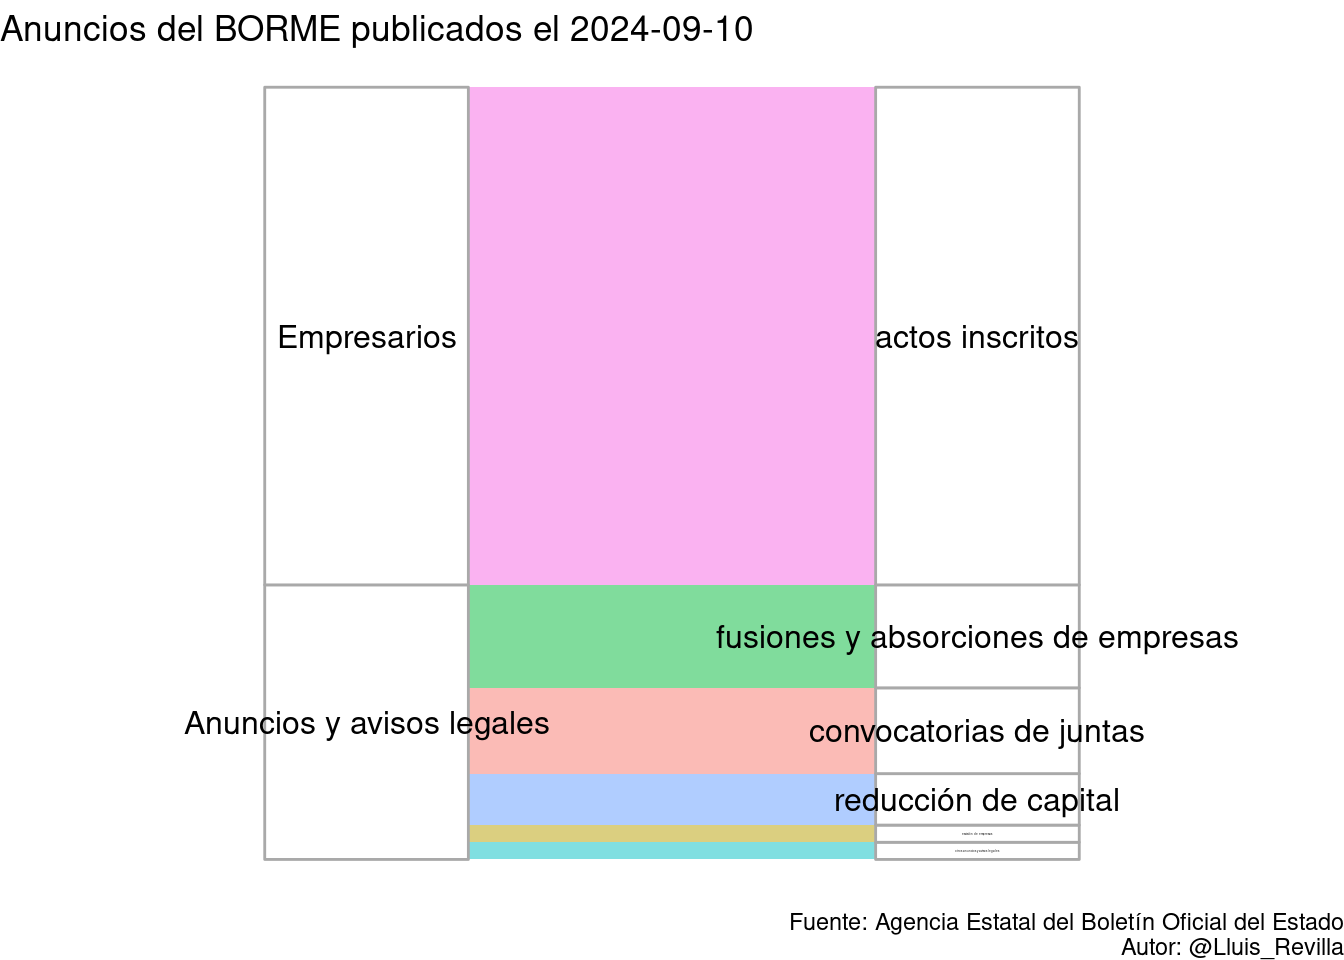
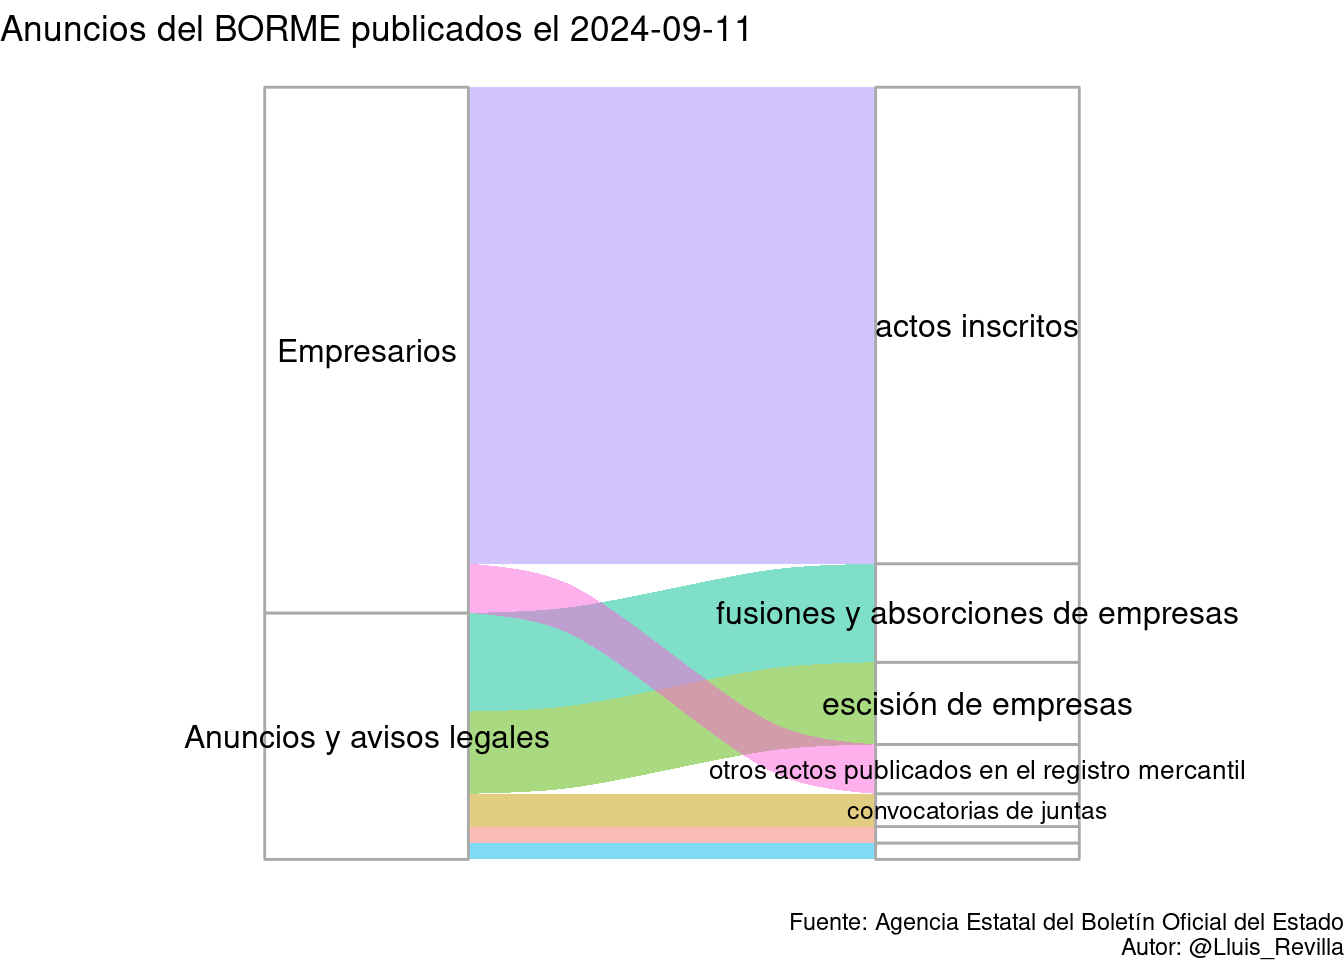
Update BORME

Changed region(s): [[0.125, 0.0938, 0.9375, 0.9062], [0.5312, 0.0, 0.5625, 0.0312]]

diff --git a/docs/last_BORME.html b/docs/last_BORME.html
@@ -379,14 +379,14 @@ $(document).ready(function () {
 
 <div id="resumen-gráfico" class="section level1">
 <h1>Resumen gráfico</h1>
-<p>Esta página web contiene el último sumario del BORME publicado el 2024-09-10 con 45 publicaciones.</p>
+<p>Esta página web contiene el último sumario del BORME publicado el 2024-09-11 con 47 publicaciones.</p>
 <p><img src="last_BORME_files/figure-html/graphics-1.png" width="672" /></p>
 </div>
 <div id="tabla-de-publicaciones" class="section level1">
 <h1>Tabla de publicaciones</h1>
 <p>Aquí está la tabla completa con enlaces a las publicaciones:</p>
-<div class="datatables html-widget html-fill-item-overflow-hidden html-fill-item" id="htmlwidget-a3e019c205c1f0cdca3c" style="width:100%;height:auto;"></div>
-<script type="application/json" data-for="htmlwidget-a3e019c205c1f0cdca3c">{"x":{"filter":"top","vertical":false,"filterHTML":"<tr>\n  <td><\/td>\n  <td data-type=\"character\" style=\"vertical-align: top;\">\n    <div class=\"form-group has-feedback\" style=\"margin-bottom: auto;\">\n      <input type=\"search\" placeholder=\"All\" class=\"form-control\" style=\"width: 100%;\"/>\n      <span class=\"glyphicon glyphicon-remove-circle form-control-feedback\"><\/span>\n    <\/div>\n  <\/td>\n  <td data-type=\"character\" style=\"vertical-align: top;\">\n    <div class=\"form-group has-feedback\" style=\"margin-bottom: auto;\">\n      <input type=\"search\" placeholder=\"All\" class=\"form-control\" style=\"width: 100%;\"/>\n      <span class=\"glyphicon glyphicon-remove-circle form-control-feedback\"><\/span>\n    <\/div>\n  <\/td>\n  <td data-type=\"character\" style=\"vertical-align: top;\">\n    <div class=\"form-group has-feedback\" style=\"margin-bottom: auto;\">\n      <input type=\"search\" placeholder=\"All\" class=\"form-control\" style=\"width: 100%;\" disabled=\"\"/>\n      <span class=\"glyphicon glyphicon-remove-circle form-control-feedback\"><\/span>\n    <\/div>\n  <\/td>\n  <td data-type=\"character\" style=\"vertical-align: top;\">\n    <div class=\"form-group has-feedback\" style=\"margin-bottom: auto;\">\n      <input type=\"search\" placeholder=\"All\" class=\"form-control\" style=\"width: 100%;\"/>\n      <span class=\"glyphicon glyphicon-remove-circle form-control-feedback\"><\/span>\n    <\/div>\n  <\/td>\n<\/tr>","data":[["1","2","3","4","5","6","7","8","9","10","11","12","13","14","15","16","17","18","19","20","21","22","23","24","25","26","27","28","29","30","31","32","33","34","35","36","37","38","39","40","41","42","43","44","45"],["SECCIÓN PRIMERA. Empresarios","SECCIÓN PRIMERA. Empresarios","SECCIÓN PRIMERA. Empresarios","SECCIÓN PRIMERA. Empresarios","SECCIÓN PRIMERA. Empresarios","SECCIÓN PRIMERA. Empresarios","SECCIÓN PRIMERA. Empresarios","SECCIÓN PRIMERA. Empresarios","SECCIÓN PRIMERA. Empresarios","SECCIÓN PRIMERA. Empresarios","SECCIÓN PRIMERA. Empresarios","SECCIÓN PRIMERA. Empresarios","SECCIÓN PRIMERA. Empresarios","SECCIÓN PRIMERA. Empresarios","SECCIÓN PRIMERA. Empresarios","SECCIÓN PRIMERA. Empresarios","SECCIÓN PRIMERA. Empresarios","SECCIÓN PRIMERA. Empresarios","SECCIÓN PRIMERA. Empresarios","SECCIÓN PRIMERA. Empresarios","SECCIÓN PRIMERA. Empresarios","SECCIÓN PRIMERA. Empresarios","SECCIÓN PRIMERA. Empresarios","SECCIÓN PRIMERA. Empresarios","SECCIÓN PRIMERA. Empresarios","SECCIÓN PRIMERA. Empresarios","SECCIÓN PRIMERA. Empresarios","SECCIÓN PRIMERA. Empresarios","SECCIÓN PRIMERA. Empresarios","SECCIÓN SEGUNDA. Anuncios y avisos legales","SECCIÓN SEGUNDA. Anuncios y avisos legales","SECCIÓN SEGUNDA. Anuncios y avisos legales","SECCIÓN SEGUNDA. Anuncios y avisos legales","SECCIÓN SEGUNDA. Anuncios y avisos legales","SECCIÓN SEGUNDA. Anuncios y avisos legales","SECCIÓN SEGUNDA. Anuncios y avisos legales","SECCIÓN SEGUNDA. Anuncios y avisos legales","SECCIÓN SEGUNDA. Anuncios y avisos legales","SECCIÓN SEGUNDA. Anuncios y avisos legales","SECCIÓN SEGUNDA. Anuncios y avisos legales","SECCIÓN SEGUNDA. Anuncios y avisos legales","SECCIÓN SEGUNDA. Anuncios y avisos legales","SECCIÓN SEGUNDA. Anuncios y avisos legales","SECCIÓN SEGUNDA. Anuncios y avisos legales","SECCIÓN SEGUNDA. Anuncios y avisos legales"],["Actos inscritos","Actos inscritos","Actos inscritos","Actos inscritos","Actos inscritos","Actos inscritos","Actos inscritos","Actos inscritos","Actos inscritos","Actos inscritos","Actos inscritos","Actos inscritos","Actos inscritos","Actos inscritos","Actos inscritos","Actos inscritos","Actos inscritos","Actos inscritos","Actos inscritos","Actos inscritos","Actos inscritos","Actos inscritos","Actos inscritos","Actos inscritos","Actos inscritos","Actos inscritos","Actos inscritos","Actos inscritos","Actos inscritos","CONVOCATORIAS DE JUNTAS","CONVOCATORIAS DE JUNTAS","CONVOCATORIAS DE JUNTAS","CONVOCATORIAS DE JUNTAS","CONVOCATORIAS DE JUNTAS","FUSIONES Y ABSORCIONES DE EMPRESAS","FUSIONES Y ABSORCIONES DE EMPRESAS","FUSIONES Y ABSORCIONES DE EMPRESAS","FUSIONES Y ABSORCIONES DE EMPRESAS","FUSIONES Y ABSORCIONES DE EMPRESAS","FUSIONES Y ABSORCIONES DE EMPRESAS","ESCISIÓN DE EMPRESAS","REDUCCIÓN DE CAPITAL","REDUCCIÓN DE CAPITAL","REDUCCIÓN DE CAPITAL","OTROS ANUNCIOS Y AVISOS LEGALES"],[null,null,null,null,null,null,null,null,null,null,null,null,null,null,null,null,null,null,null,null,null,null,null,null,null,null,null,null,null,null,null,null,null,null,null,null,null,null,null,null,null,null,null,null,null],["BORME-A-2024-174-02","BORME-A-2024-174-03","BORME-A-2024-174-04","BORME-A-2024-174-06","BORME-A-2024-174-08","BORME-A-2024-174-10","BORME-A-2024-174-11","BORME-A-2024-174-12","BORME-A-2024-174-14","BORME-A-2024-174-15","BORME-A-2024-174-16","BORME-A-2024-174-17","BORME-A-2024-174-18","BORME-A-2024-174-21","BORME-A-2024-174-24","BORME-A-2024-174-25","BORME-A-2024-174-26","BORME-A-2024-174-28","BORME-A-2024-174-30","BORME-A-2024-174-33","BORME-A-2024-174-36","BORME-A-2024-174-41","BORME-A-2024-174-42","BORME-A-2024-174-43","BORME-A-2024-174-45","BORME-A-2024-174-46","BORME-A-2024-174-47","BORME-A-2024-174-48","BORME-A-2024-174-99","BORME-C-2024-5075","BORME-C-2024-5076","BORME-C-2024-5077","BORME-C-2024-5078","BORME-C-2024-5079","BORME-C-2024-5080","BORME-C-2024-5081","BORME-C-2024-5082","BORME-C-2024-5083","BORME-C-2024-5084","BORME-C-2024-5085","BORME-C-2024-5086","BORME-C-2024-5087","BORME-C-2024-5088","BORME-C-2024-5089","BORME-C-2024-5090"]],"container":"<table class=\"display\">\n  <thead>\n    <tr>\n      <th> <\/th>\n      <th>Sección<\/th>\n      <th>Emisor<\/th>\n      <th>Texto<\/th>\n      <th>Link<\/th>\n    <\/tr>\n  <\/thead>\n<\/table>","options":{"pageLength":10,"autoWidth":true,"columnDefs":[{"orderable":false,"targets":0},{"name":" ","targets":0},{"name":"Sección","targets":1},{"name":"Emisor","targets":2},{"name":"Texto","targets":3},{"name":"Link","targets":4}],"order":[],"orderClasses":false,"orderCellsTop":true}},"evals":[],"jsHooks":[]}</script>
+<div class="datatables html-widget html-fill-item-overflow-hidden html-fill-item" id="htmlwidget-57ecf32075907f31a181" style="width:100%;height:auto;"></div>
+<script type="application/json" data-for="htmlwidget-57ecf32075907f31a181">{"x":{"filter":"top","vertical":false,"filterHTML":"<tr>\n  <td><\/td>\n  <td data-type=\"character\" style=\"vertical-align: top;\">\n    <div class=\"form-group has-feedback\" style=\"margin-bottom: auto;\">\n      <input type=\"search\" placeholder=\"All\" class=\"form-control\" style=\"width: 100%;\"/>\n      <span class=\"glyphicon glyphicon-remove-circle form-control-feedback\"><\/span>\n    <\/div>\n  <\/td>\n  <td data-type=\"character\" style=\"vertical-align: top;\">\n    <div class=\"form-group has-feedback\" style=\"margin-bottom: auto;\">\n      <input type=\"search\" placeholder=\"All\" class=\"form-control\" style=\"width: 100%;\"/>\n      <span class=\"glyphicon glyphicon-remove-circle form-control-feedback\"><\/span>\n    <\/div>\n  <\/td>\n  <td data-type=\"character\" style=\"vertical-align: top;\">\n    <div class=\"form-group has-feedback\" style=\"margin-bottom: auto;\">\n      <input type=\"search\" placeholder=\"All\" class=\"form-control\" style=\"width: 100%;\" disabled=\"\"/>\n      <span class=\"glyphicon glyphicon-remove-circle form-control-feedback\"><\/span>\n    <\/div>\n  <\/td>\n  <td data-type=\"character\" style=\"vertical-align: top;\">\n    <div class=\"form-group has-feedback\" style=\"margin-bottom: auto;\">\n      <input type=\"search\" placeholder=\"All\" class=\"form-control\" style=\"width: 100%;\"/>\n      <span class=\"glyphicon glyphicon-remove-circle form-control-feedback\"><\/span>\n    <\/div>\n  <\/td>\n<\/tr>","data":[["1","2","3","4","5","6","7","8","9","10","11","12","13","14","15","16","17","18","19","20","21","22","23","24","25","26","27","28","29","30","31","32","33","34","35","36","37","38","39","40","41","42","43","44","45","46","47"],["SECCIÓN PRIMERA. Empresarios","SECCIÓN PRIMERA. Empresarios","SECCIÓN PRIMERA. Empresarios","SECCIÓN PRIMERA. Empresarios","SECCIÓN PRIMERA. Empresarios","SECCIÓN PRIMERA. Empresarios","SECCIÓN PRIMERA. Empresarios","SECCIÓN PRIMERA. Empresarios","SECCIÓN PRIMERA. Empresarios","SECCIÓN PRIMERA. Empresarios","SECCIÓN PRIMERA. Empresarios","SECCIÓN PRIMERA. Empresarios","SECCIÓN PRIMERA. Empresarios","SECCIÓN PRIMERA. Empresarios","SECCIÓN PRIMERA. Empresarios","SECCIÓN PRIMERA. Empresarios","SECCIÓN PRIMERA. Empresarios","SECCIÓN PRIMERA. Empresarios","SECCIÓN PRIMERA. Empresarios","SECCIÓN PRIMERA. Empresarios","SECCIÓN PRIMERA. Empresarios","SECCIÓN PRIMERA. Empresarios","SECCIÓN PRIMERA. Empresarios","SECCIÓN PRIMERA. Empresarios","SECCIÓN PRIMERA. Empresarios","SECCIÓN PRIMERA. Empresarios","SECCIÓN PRIMERA. Empresarios","SECCIÓN PRIMERA. Empresarios","SECCIÓN PRIMERA. Empresarios","SECCIÓN PRIMERA. Empresarios","SECCIÓN PRIMERA. Empresarios","SECCIÓN PRIMERA. Empresarios","SECCIÓN SEGUNDA. Anuncios y avisos legales","SECCIÓN SEGUNDA. Anuncios y avisos legales","SECCIÓN SEGUNDA. Anuncios y avisos legales","SECCIÓN SEGUNDA. Anuncios y avisos legales","SECCIÓN SEGUNDA. Anuncios y avisos legales","SECCIÓN SEGUNDA. Anuncios y avisos legales","SECCIÓN SEGUNDA. Anuncios y avisos legales","SECCIÓN SEGUNDA. Anuncios y avisos legales","SECCIÓN SEGUNDA. Anuncios y avisos legales","SECCIÓN SEGUNDA. Anuncios y avisos legales","SECCIÓN SEGUNDA. Anuncios y avisos legales","SECCIÓN SEGUNDA. Anuncios y avisos legales","SECCIÓN SEGUNDA. Anuncios y avisos legales","SECCIÓN SEGUNDA. Anuncios y avisos legales","SECCIÓN SEGUNDA. Anuncios y avisos legales"],["Actos inscritos","Actos inscritos","Actos inscritos","Actos inscritos","Actos inscritos","Actos inscritos","Actos inscritos","Actos inscritos","Actos inscritos","Actos inscritos","Actos inscritos","Actos inscritos","Actos inscritos","Actos inscritos","Actos inscritos","Actos inscritos","Actos inscritos","Actos inscritos","Actos inscritos","Actos inscritos","Actos inscritos","Actos inscritos","Actos inscritos","Actos inscritos","Actos inscritos","Actos inscritos","Actos inscritos","Actos inscritos","Actos inscritos","Otros actos publicados en el Registro Mercantil","Otros actos publicados en el Registro Mercantil","Otros actos publicados en el Registro Mercantil","CONVOCATORIAS DE JUNTAS","CONVOCATORIAS DE JUNTAS","FUSIONES Y ABSORCIONES DE EMPRESAS","FUSIONES Y ABSORCIONES DE EMPRESAS","FUSIONES Y ABSORCIONES DE EMPRESAS","FUSIONES Y ABSORCIONES DE EMPRESAS","FUSIONES Y ABSORCIONES DE EMPRESAS","FUSIONES Y ABSORCIONES DE EMPRESAS","ESCISIÓN DE EMPRESAS","ESCISIÓN DE EMPRESAS","ESCISIÓN DE EMPRESAS","ESCISIÓN DE EMPRESAS","ESCISIÓN DE EMPRESAS","AUMENTO DE CAPITAL","REDUCCIÓN DE CAPITAL"],[null,null,null,null,null,null,null,null,null,null,null,null,null,null,null,null,null,null,null,null,null,null,null,null,null,null,null,null,null,null,null,null,null,null,null,null,null,null,null,null,null,null,null,null,null,null,null],["BORME-A-2024-175-01","BORME-A-2024-175-03","BORME-A-2024-175-04","BORME-A-2024-175-06","BORME-A-2024-175-07","BORME-A-2024-175-08","BORME-A-2024-175-11","BORME-A-2024-175-12","BORME-A-2024-175-13","BORME-A-2024-175-14","BORME-A-2024-175-15","BORME-A-2024-175-17","BORME-A-2024-175-24","BORME-A-2024-175-28","BORME-A-2024-175-29","BORME-A-2024-175-30","BORME-A-2024-175-31","BORME-A-2024-175-32","BORME-A-2024-175-33","BORME-A-2024-175-35","BORME-A-2024-175-36","BORME-A-2024-175-38","BORME-A-2024-175-40","BORME-A-2024-175-45","BORME-A-2024-175-46","BORME-A-2024-175-47","BORME-A-2024-175-50","BORME-A-2024-175-51","BORME-A-2024-175-99","BORME-B-2024-175-28","BORME-B-2024-175-31","BORME-B-2024-175-32","BORME-C-2024-5091","BORME-C-2024-5092","BORME-C-2024-5093","BORME-C-2024-5094","BORME-C-2024-5095","BORME-C-2024-5096","BORME-C-2024-5097","BORME-C-2024-5098","BORME-C-2024-5099","BORME-C-2024-5100","BORME-C-2024-5101","BORME-C-2024-5102","BORME-C-2024-5103","BORME-C-2024-5104","BORME-C-2024-5105"]],"container":"<table class=\"display\">\n  <thead>\n    <tr>\n      <th> <\/th>\n      <th>Sección<\/th>\n      <th>Emisor<\/th>\n      <th>Texto<\/th>\n      <th>Link<\/th>\n    <\/tr>\n  <\/thead>\n<\/table>","options":{"pageLength":10,"autoWidth":true,"columnDefs":[{"orderable":false,"targets":0},{"name":" ","targets":0},{"name":"Sección","targets":1},{"name":"Emisor","targets":2},{"name":"Texto","targets":3},{"name":"Link","targets":4}],"order":[],"orderClasses":false,"orderCellsTop":true}},"evals":[],"jsHooks":[]}</script>
 </div>
 
 
